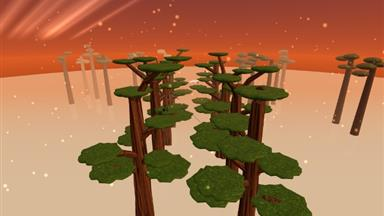
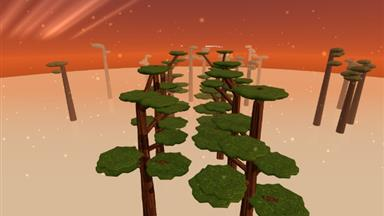
Topiary Grove: slimmer trunks

diff --git a/src/main.js b/src/main.js
@@ -1,18 +1,18 @@
 import * as THREE from 'three';
-import { Arena, MAPS } from './arena.js?v=20261116184538';
-import { Fighter, PALETTE, GUARD, setMetalEnv, metalEnvFor } from './fighter.js?v=20261116184538';
-import { bakeMeshes, Pieces, Particles, splitSoup } from './slice.js?v=20261116184538';
-import { sfx, ensureAudio, setListener, setVolume, setMuted } from './audio.js?v=20261116184538';
-import * as net from './net.js?v=20261116184538';
-import { MODES, POINT_MODES, MODE_GOAL, ModeFx, makeCrown } from './modes.js?v=20261116184538';
-import { profile, addCoins, randomLook, cleanLook, item, cleanUp, upMul } from './cosmetics.js?v=20261116184538';
-import { makeKillFx } from './killfx.js?v=20261116184538';
-import { makeGrapple } from './grapple.js?v=20261116184538';
-import { initShop } from './shop.js?v=20261116184538';
-import { breakChunk, chunkSoup } from './dojo.js?v=20261116184538';
-import { portal } from './portal.js?v=20261116184538';
-import { Piranhas, GiantSaws, GiantBirds } from './piranha.js?v=20261116184538';
-import { makePost } from './post.js?v=20261116184538';
+import { Arena, MAPS } from './arena.js?v=20261116184708';
+import { Fighter, PALETTE, GUARD, setMetalEnv, metalEnvFor } from './fighter.js?v=20261116184708';
+import { bakeMeshes, Pieces, Particles, splitSoup } from './slice.js?v=20261116184708';
+import { sfx, ensureAudio, setListener, setVolume, setMuted } from './audio.js?v=20261116184708';
+import * as net from './net.js?v=20261116184708';
+import { MODES, POINT_MODES, MODE_GOAL, ModeFx, makeCrown } from './modes.js?v=20261116184708';
+import { profile, addCoins, randomLook, cleanLook, item, cleanUp, upMul } from './cosmetics.js?v=20261116184708';
+import { makeKillFx } from './killfx.js?v=20261116184708';
+import { makeGrapple } from './grapple.js?v=20261116184708';
+import { initShop } from './shop.js?v=20261116184708';
+import { breakChunk, chunkSoup } from './dojo.js?v=20261116184708';
+import { portal } from './portal.js?v=20261116184708';
+import { Piranhas, GiantSaws, GiantBirds } from './piranha.js?v=20261116184708';
+import { makePost } from './post.js?v=20261116184708';
 
 // ---------- settings ----------
 const store = {

diff --git a/src/arena.js b/src/arena.js
@@ -3,20 +3,20 @@
 // so collision and "what am I standing on" stay simple and identical in every browser.
 import * as THREE from 'three';
 import { buildPagoda, buildIsles, buildBowl } from './maps2.js';
-import { buildTilt } from './tilt.js?v=20261116184538';
-import { buildFoundry } from './foundry.js?v=20261116184538';
-import { buildBamboo } from './bamboo.js?v=20261116184538';
-import { buildCity } from './city.js?v=20261116184538';
-import { buildDojo } from './dojo.js?v=20261116184538';
-import { buildComet } from './comet.js?v=20261116184538';
-import { buildLava } from './lava.js?v=20261116184538';
-import { buildRun } from './run.js?v=20261116184538';
-import { buildGrove } from './grove.js?v=20261116184538';
-import { buildTransport } from './transport.js?v=20261116184538';
-import { applyLook } from './look.js?v=20261116184538';
-import { addScenery } from './scenery.js?v=20261116184538';
-import { addAtmosphere } from './atmos.js?v=20261116184538';
-import { makeMesa, mesaMesh } from './mesa.js?v=20261116184538';
+import { buildTilt } from './tilt.js?v=20261116184708';
+import { buildFoundry } from './foundry.js?v=20261116184708';
+import { buildBamboo } from './bamboo.js?v=20261116184708';
+import { buildCity } from './city.js?v=20261116184708';
+import { buildDojo } from './dojo.js?v=20261116184708';
+import { buildComet } from './comet.js?v=20261116184708';
+import { buildLava } from './lava.js?v=20261116184708';
+import { buildRun } from './run.js?v=20261116184708';
+import { buildGrove } from './grove.js?v=20261116184708';
+import { buildTransport } from './transport.js?v=20261116184708';
+import { applyLook } from './look.js?v=20261116184708';
+import { addScenery } from './scenery.js?v=20261116184708';
+import { addAtmosphere } from './atmos.js?v=20261116184708';
+import { makeMesa, mesaMesh } from './mesa.js?v=20261116184708';
 const NONE = [];
 const _bm = new THREE.Matrix4(), _bp = new THREE.Vector3(), _bq = new THREE.Quaternion(), _bs = new THREE.Vector3(), _UP = new THREE.Vector3(0, 1, 0); // bamboo instance updates
 

diff --git a/index.html b/index.html
@@ -4,7 +4,7 @@
 <meta charset="utf-8">
 <meta name="viewport" content="width=device-width,initial-scale=1">
 <title>Sever</title>
-<meta name="build" content="20261116184538">
+<meta name="build" content="20261116184708">
 <link rel="icon" href="data:,">
 <script>
 // Stale-page guard (as in Splatline): if version.json names a newer build than this page, reload once.
@@ -191,12 +191,12 @@ window.severVersion.check();
 <script type="importmap">
 { "imports": {
   "three": "./vendor/three.module.min.js",
-  "./src/main.js": "./src/main.js?v=20261116184538",
-  "./src/arena.js": "./src/arena.js?v=20261116184538",
-  "./src/fighter.js": "./src/fighter.js?v=20261116184538",
-  "./src/slice.js": "./src/slice.js?v=20261116184538",
-  "./src/audio.js": "./src/audio.js?v=20261116184538",
-  "./src/net.js": "./src/net.js?v=20261116184538"
+  "./src/main.js": "./src/main.js?v=20261116184708",
+  "./src/arena.js": "./src/arena.js?v=20261116184708",
+  "./src/fighter.js": "./src/fighter.js?v=20261116184708",
+  "./src/slice.js": "./src/slice.js?v=20261116184708",
+  "./src/audio.js": "./src/audio.js?v=20261116184708",
+  "./src/net.js": "./src/net.js?v=20261116184708"
 } }
 </script>
 </head>
@@ -352,6 +352,6 @@ window.severVersion.check();
 <div id="toast" style="opacity:0"></div>
 <div id="loading">Loading…</div>
 <noscript><p style="position:fixed;inset:0;display:flex;align-items:center;justify-content:center">Sever needs JavaScript and WebGL.</p></noscript>
-<script type="module" src="src/main.js?v=20261116184538"></script>
+<script type="module" src="src/main.js?v=20261116184708"></script>
 </body>
 </html>

diff --git a/src/grove.js b/src/grove.js
@@ -55,7 +55,7 @@ export function buildGrove(A, T) {
   const free = (px, pz, py, R) => all.every((q) => Math.hypot(q.x - px, q.z - pz) > q.round + R + 0.8 || Math.abs(q.y - py) > 5);
   const pad = (px, pz, py, R) => { const p = addPad(px, pz, py, R); all.push(p); return p; };
   for (const side of [-1, 1]) for (let k = 0; k < 4; k++) {
-    const x = side * (ROW + (r() - 0.5) * 2), z = -39 + k * 26 + (side > 0 ? 13 : 0) + (r() - 0.5) * 3, top = 15 + r() * 8, H = top - BASE, R0 = 2.0 + r() * 0.8; // (slimmer trunks)
+    const x = side * (ROW + (r() - 0.5) * 2), z = -39 + k * 26 + (side > 0 ? 13 : 0) + (r() - 0.5) * 3, top = 15 + r() * 8, H = top - BASE, R0 = 1.5 + r() * 0.6; // (slimmer trunks)
     // the trunk: thick and swollen, twisting as it rises out of the mist
     const tg = new THREE.CylinderGeometry(R0 * 0.62, R0 * 1.3, H, 20, 14, false), tp = tg.attributes.position, ph = r() * TAU;
     for (let i = 0; i < tp.count; i++) { const y = tp.getY(i) / H + 0.5, a = Math.atan2(tp.getZ(i), tp.getX(i)), rr = Math.hypot(tp.getX(i), tp.getZ(i)), k2 = 1 + 0.16 * Math.sin(a * 3 + y * 7 + ph) + 0.08 * Math.sin(a * 7 - y * 12), tw = a + y * 1.4; tp.setX(i, Math.cos(tw) * rr * k2); tp.setZ(i, Math.sin(tw) * rr * k2); }

diff --git a/src/shop.js b/src/shop.js
@@ -1,10 +1,10 @@
 // The shop screen: browse by category, try things on a turning, swinging preview fighter, buy and equip.
 import * as THREE from 'three';
-import { Fighter, PALETTE, setMetalEnv, metalEnvFor } from './fighter.js?v=20261116184538';
-import { Particles, Pieces, bakeMeshes } from './slice.js?v=20261116184538';
-import { makeKillFx } from './killfx.js?v=20261116184538';
-import { makeGrapple } from './grapple.js?v=20261116184538';
-import { CATEGORIES, CATALOG, item, profile, owns, buy, equip, UPGRADES, UP_MAX, UP_PRICES, buyUpgrade, upText, tierOf } from './cosmetics.js?v=20261116184538';
+import { Fighter, PALETTE, setMetalEnv, metalEnvFor } from './fighter.js?v=20261116184708';
+import { Particles, Pieces, bakeMeshes } from './slice.js?v=20261116184708';
+import { makeKillFx } from './killfx.js?v=20261116184708';
+import { makeGrapple } from './grapple.js?v=20261116184708';
+import { CATEGORIES, CATALOG, item, profile, owns, buy, equip, UPGRADES, UP_MAX, UP_PRICES, buyUpgrade, upText, tierOf } from './cosmetics.js?v=20261116184708';
 
 const $ = (id) => document.getElementById(id);
 const hex = (c) => '#' + c.toString(16).padStart(6, '0');

diff --git a/src/city.js b/src/city.js
@@ -3,9 +3,9 @@
 // breakable chunks as the Paper Dojo: every window pane shatters, office partitions and crates break, and the
 // steel frames (unbreakable) are there to swing from, run along and stand on.
 import * as THREE from 'three';
-import { cloudHeaps } from './scenery.js?v=20261116184538';
+import { cloudHeaps } from './scenery.js?v=20261116184708';
 import { deck, prop } from './maps2.js';
-import { kindMats, chunk, group, wall, stack, finishBrk, kill } from './dojo.js?v=20261116184538';
+import { kindMats, chunk, group, wall, stack, finishBrk, kill } from './dojo.js?v=20261116184708';
 
 const TAU = Math.PI * 2;
 const std = (color, o = {}) => new THREE.MeshStandardMaterial({ color, roughness: 0.8, ...o });

diff --git a/src/maps2.js b/src/maps2.js
@@ -3,8 +3,8 @@
 //   Pagoda Falls: a three-tier pagoda at sunset, stone islands, rock spires and terraces, red lacquer posts.
 //   Moonlit Isles: floating grass islands at night, a great cherry tree, rope bridges, bamboo groves.
 import * as THREE from 'three';
-import { buildMaw, mawY, buildTendrils } from './maw.js?v=20261116184538';
-import { glow, aurora } from './look.js?v=20261116184538';
+import { buildMaw, mawY, buildTendrils } from './maw.js?v=20261116184708';
+import { glow, aurora } from './look.js?v=20261116184708';
 
 const TAU = Math.PI * 2;
 const std = (color, o = {}) => new THREE.MeshStandardMaterial({ color, roughness: 0.8, ...o });

diff --git a/src/tilt.js b/src/tilt.js
@@ -5,8 +5,8 @@
 // whoever is on it; a new one is hung back on 10 s later.
 import * as THREE from 'three';
 import { drift } from './maps2.js';
-import { glow, aurora } from './look.js?v=20261116184538';
-import { cloudHeaps } from './scenery.js?v=20261116184538';
+import { glow, aurora } from './look.js?v=20261116184708';
+import { cloudHeaps } from './scenery.js?v=20261116184708';
 
 const TAU = Math.PI * 2, N = 6, R = 14, DISH = 1.9, ARM = 25, L = 22, HUB = 40, MAXOFF = 2; // platforms, radius, dish depth, crown arm, chain, crown height, extra swing
 const std = (color, o = {}) => new THREE.MeshStandardMaterial({ color, roughness: 0.7, ...o });

diff --git a/src/fighter.js b/src/fighter.js
@@ -2,8 +2,8 @@
 // cleanly), posed each frame with a long-striding run cycle, two-bone IK for arms and legs, and a sword
 // driven by the swing input (s.x, s.y).
 import * as THREE from 'three';
-import { buildBody, poseBody } from './body.js?v=20261116184538';
-import { item, cleanLook } from './cosmetics.js?v=20261116184538';
+import { buildBody, poseBody } from './body.js?v=20261116184708';
+import { item, cleanLook } from './cosmetics.js?v=20261116184708';
 
 // Every material that can end up on a sliced piece is registered here, so a piece's single mesh can use
 // one shared material array and keep each triangle's look.

diff --git a/src/piranha.js b/src/piranha.js
@@ -1,7 +1,7 @@
 // Great Canopy: fall too low and a giant piranha bursts out of the swamp, jaws wide, snaps you up and dives back in.
 // Purely visual (every client plays it locally when it sees a fall death on that map).
 import * as THREE from 'three';
-import { bladeMesh } from './foundry.js?v=20261116184538';
+import { bladeMesh } from './foundry.js?v=20261116184708';
 
 const TAU = Math.PI * 2;
 const std = (color, o = {}) => new THREE.MeshStandardMaterial({ color, roughness: 0.55, metalness: 0.15, ...o });

diff --git a/src/killfx.js b/src/killfx.js
@@ -1,8 +1,8 @@
 // Kill effects from the shop: what happens to someone you cut down. The body still splits along your
 // cut; the effect changes what sprays out, what the pieces leak, and what becomes of them.
 import * as THREE from 'three';
-import { Particles } from './slice.js?v=20261116184538';
-import { sfx } from './audio.js?v=20261116184538';
+import { Particles } from './slice.js?v=20261116184708';
+import { sfx } from './audio.js?v=20261116184708';
 
 const R = () => Math.random() - 0.5;
 

diff --git a/src/bamboo.js b/src/bamboo.js
@@ -5,7 +5,7 @@
 // them (and come back a few seconds later for the next fighter).
 import * as THREE from 'three';
 import { deck, prop, stalk, drift, farRing } from './maps2.js';
-import { kindMats, chunk, join, group, wall, stack, finishBrk, kill } from './dojo.js?v=20261116184538';
+import { kindMats, chunk, join, group, wall, stack, finishBrk, kill } from './dojo.js?v=20261116184708';
 
 const TAU = Math.PI * 2, HALF = 30, TILE = 1.5;
 
